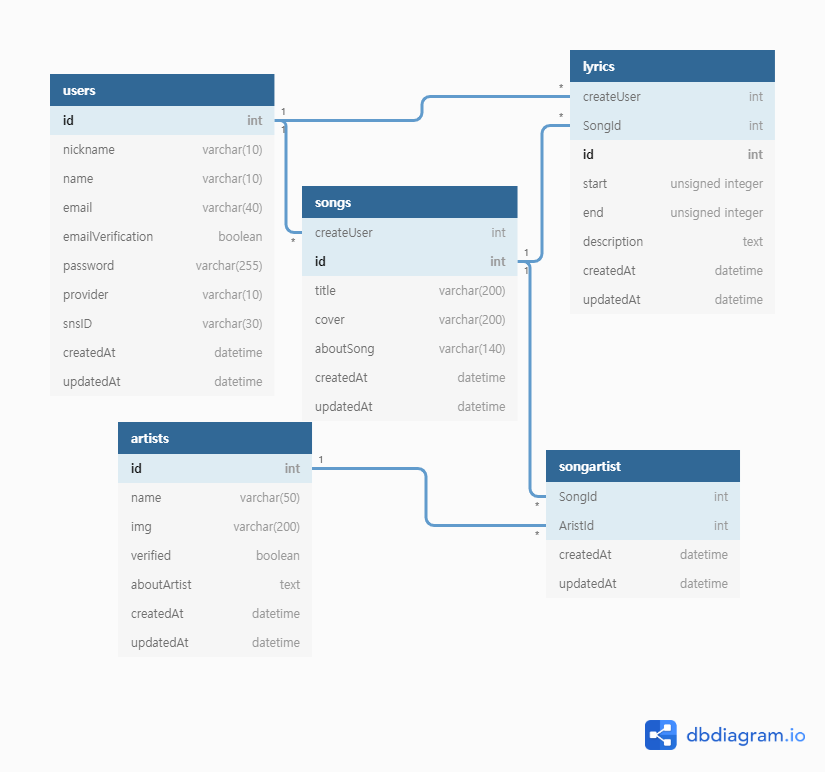
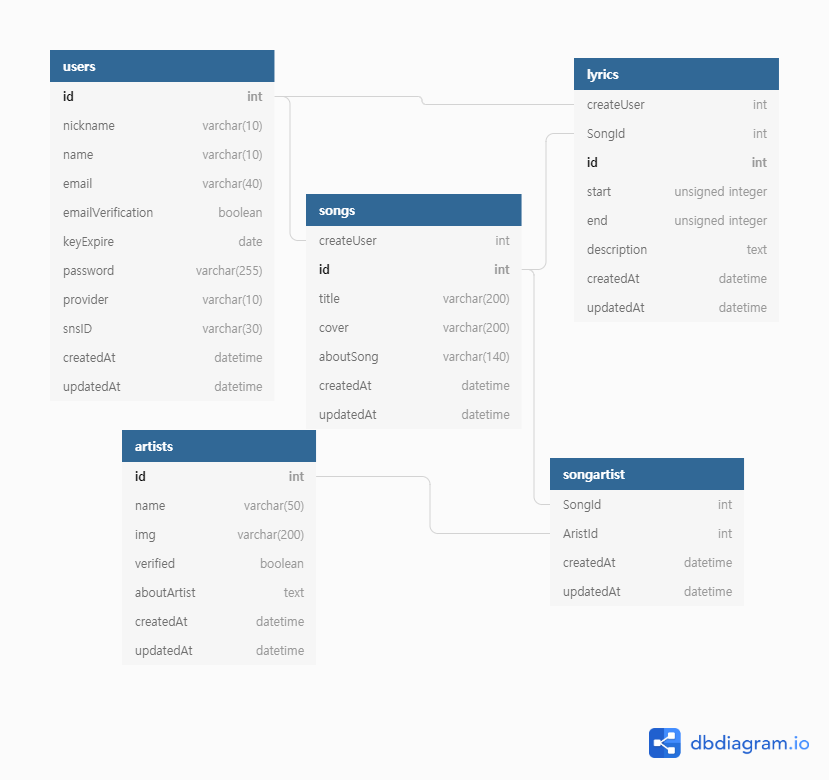
change user Model add keyExpire

diff --git a/routes/auth.js b/routes/auth.js
@@ -25,18 +25,22 @@ router.post('/join', isNotLoggedIn, async (req, res, next) => {
         const hash = await bcrypt.hash(password, 12);
         // 이메일 인증키 생성
         const emailVerifyKey = await crypto.randomBytes(100).toString('base64');
-        await User.create({
+        // 인증키 만료 날짜 10분
+        const keyExpire = Date.now() + 600000
+        const user = await User.create({
             nickname,
             name,
             email,
             password: hash,
-            emailVerifyKey
+            emailVerifyKey,
+            keyExpire
         });
 
+        req.userId = user.id;
         req.key = emailVerifyKey;
         req.email = email;
 
-        sendMail(req, res, next);
+        //sendMail(req, res, next);
 
         return res.redirect('/');
 

diff --git a/models/user.js b/models/user.js
@@ -29,6 +29,11 @@ module.exports = class User extends Sequelize.Model{
                 allowNull: false,
                 unique: true,
             },
+            //인증 코드
+            keyExpire: {
+                type: Sequelize.STRING(140),
+                allowNull: false,
+            },
             password: {
                 type: Sequelize.STRING(255),
                 allowNull: true,

diff --git a/index.js b/index.js
@@ -32,6 +32,7 @@ sequelize.sync({ force: true })
     console.log(err);
 });
 
+
 app.use(morgan('dev'));
 app.use(express.static(path.join(__dirname, 'public')));
 app.use(express.json());
